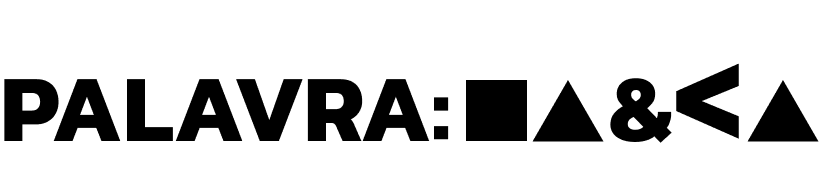
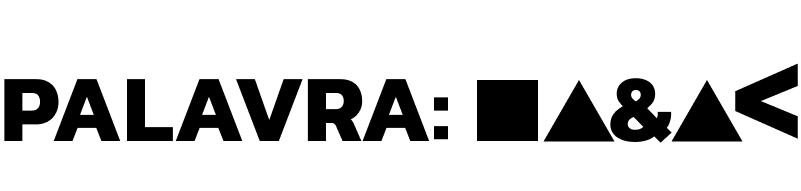
fix: resume problems

Changed region(s): [[0.0312, 0.3927, 0.593, 0.7592], [0.6242, 0.3403, 0.9988, 0.7592], [0.0312, 0.4188, 0.0624, 0.445]]

diff --git a/src/components/features/PadraoCap2/QuizModal.jsx b/src/components/features/PadraoCap2/QuizModal.jsx
@@ -1,50 +1,6 @@
 import styled from "styled-components";
 import InputModal from "../../common/Modal/InputModal";
 
-const RiddleContentWrapper = styled.div`
-  position: relative;
-  padding: 10px 10px 10px 0px;
-  font-family: Arial, sans-serif;
-  color: black;
-  width: 100%;
-  display: flex;
-  flex-direction: column;
-  align-items: center;
-`;
-
-const QuestionText = styled.p`
-  font-size: 22px;
-  line-height: 1.5;
-  text-align: center;
-  margin-bottom: 25px;
-  width: 100%;
-  font-weight: 500;
-  padding-left: 20px;
-  padding-right: 20px;
-`;
-
-const NumberTag = styled.div`
-  position: absolute;
-  top: -30px;
-  left: -30px;
-  width: 40px;
-  height: 40px;
-
-  background-color: #64f5a7;
-  border-radius: 5px;
-  transform: rotate(45deg);
-
-  & span {
-    position: absolute;
-    top: 50%;
-    left: 50%;
-    transform: translate(-50%, -50%) rotate(-45deg);
-    color: black;
-    font-weight: bold;
-    font-size: 30px;
-  }
-`;
-
 function RiddleQuizModal({
   riddleNumber,
   questionText,
@@ -62,15 +18,7 @@ function RiddleQuizModal({
       nextPath={nextPath}
       correctAnswer={correctAnswer}
       initialPlaceholder={newPlaceholder}
-    >
-      <RiddleContentWrapper>
-        <NumberTag>
-          <span>{riddleNumber}</span>
-        </NumberTag>
-
-        <QuestionText>{questionText}</QuestionText>
-      </RiddleContentWrapper>
-    </InputModal>
+    ></InputModal>
   );
 }
 

diff --git a/src/pages/Capitulo2/Styles.js b/src/pages/Capitulo2/Styles.js
@@ -1,0 +1,52 @@
+import styled from "styled-components";
+export const RiddleContentWrapper = styled.div`
+  position: absolute;
+  bottom: 25%;
+  padding: 10px 10px 10px 0px;
+  font-family: Arial, sans-serif;
+  color: black;
+  width: 70%;
+  height: 70vh;
+  background-color: white;
+  display: flex;
+  flex-direction: column;
+  align-items: center;
+  box-shadow: 0 6px 16px 0 rgba(0, 0, 0, 0.08), 0 3px 6px -4px rgba(0, 0, 0, 0.12),
+    0 9px 28px 8px rgba(0, 0, 0, 0.05);
+  border-radius: 15px;
+`;
+
+export const QuestionText = styled.p`
+  font-size: 25px;
+  position: absolute;
+  width: 40px;
+  height: 40px;
+  line-height: 1.5;
+  text-align: center;
+  margin-bottom: 25px;
+  width: 100%;
+  font-weight: 500;
+  padding-left: 20px;
+  padding-right: 20px;
+`;
+
+export const NumberTag = styled.div`
+  position: absolute;
+  ${(props) => `top: ${props.top || "5%"};`}
+  ${(props) => `left: ${props.left || "8%"};`}
+  width: 40px;
+  height: 40px;
+  background-color: #64f5a7;
+  border-radius: 5px;
+  transform: rotate(45deg);
+
+  & span {
+    position: absolute;
+    top: 50%;
+    left: 50%;
+    transform: translate(-50%, -50%) rotate(-45deg);
+    color: black;
+    font-weight: bold;
+    font-size: 30px;
+  }
+`;

diff --git a/src/pages/DeOndeVim/DeOndeVim2.jsx b/src/pages/DeOndeVim/DeOndeVim2.jsx
@@ -4,16 +4,22 @@ import { Container, CloseButton, ArrowButton } from "./Styles";
 import { useNavigate } from "react-router-dom";
 export default function DeOndeVim2() {
   const navigate = useNavigate();
+  const handleAdvance = () => {
+    navigate("/de-onde-vim/3");
+  };
+  const handleBack = () => {
+    navigate("/de-onde-vim");
+  };
   return (
     <Container bg='2'>
       <CloseButton to='/'>
         <CloseOutlined />
       </CloseButton>
 
-      <ArrowButton onClick={navigate("/de-onde-vim")}>
+      <ArrowButton onClick={handleBack}>
         <ArrowLeftOutlined />
       </ArrowButton>
-      <ArrowButton onClick={navigate("/de-onde-vim/3")} right>
+      <ArrowButton onClick={handleAdvance} right>
         <ArrowRightOutlined />
       </ArrowButton>
     </Container>

diff --git a/src/pages/Capitulo2/Pag2_20.jsx b/src/pages/Capitulo2/Pag2_20.jsx
@@ -1,6 +1,6 @@
 import BackgroundBege from "../../components/features/PadraoCap2/TelaBege";
 import RiddleQuizModal from "../../components/features/PadraoCap2/QuizModal";
-
+import { RiddleContentWrapper, NumberTag, QuestionText } from "./Styles";
 const C2_Tela_20 = () => {
   const charada = {
     number: 7,
@@ -20,6 +20,13 @@ const C2_Tela_20 = () => {
         nextPath={charada.nextPath}
         defaultOpen={true}
       />
+      <RiddleContentWrapper>
+        <NumberTag left='17.5%'>
+          <span>{charada.number}</span>
+        </NumberTag>
+
+        <QuestionText>{charada.question}</QuestionText>
+      </RiddleContentWrapper>
     </BackgroundBege>
   );
 };

diff --git a/src/pages/Capitulo2/Pag2_22.jsx b/src/pages/Capitulo2/Pag2_22.jsx
@@ -1,6 +1,6 @@
 import BackgroundBege from "../../components/features/PadraoCap2/TelaBege";
 import RiddleQuizModal from "../../components/features/PadraoCap2/QuizModal";
-
+import { RiddleContentWrapper, NumberTag, QuestionText } from "./Styles";
 const C2_Tela_22 = () => {
   const charada = {
     number: 9,
@@ -20,6 +20,13 @@ const C2_Tela_22 = () => {
         nextPath={charada.nextPath}
         defaultOpen={true}
       />
+      <RiddleContentWrapper>
+        <NumberTag left='12.5%'>
+          <span>{charada.number}</span>
+        </NumberTag>
+
+        <QuestionText>{charada.question}</QuestionText>
+      </RiddleContentWrapper>
     </BackgroundBege>
   );
 };

diff --git a/src/pages/Capitulo2/Pag2_16.jsx b/src/pages/Capitulo2/Pag2_16.jsx
@@ -1,6 +1,6 @@
 import BackgroundBege from "../../components/features/PadraoCap2/TelaBege";
 import RiddleQuizModal from "../../components/features/PadraoCap2/QuizModal";
-
+import { RiddleContentWrapper, NumberTag, QuestionText } from "./Styles";
 const C2_Tela_16 = () => {
   const charada = {
     number: 3,
@@ -20,6 +20,13 @@ const C2_Tela_16 = () => {
         nextPath={charada.nextPath}
         defaultOpen={true}
       />
+      <RiddleContentWrapper>
+        <NumberTag left='10%'>
+          <span>{charada.number}</span>
+        </NumberTag>
+
+        <QuestionText>{charada.question}</QuestionText>
+      </RiddleContentWrapper>
     </BackgroundBege>
   );
 };

diff --git a/src/pages/Capitulo2/Pag2_17.jsx b/src/pages/Capitulo2/Pag2_17.jsx
@@ -1,6 +1,6 @@
 import BackgroundBege from "../../components/features/PadraoCap2/TelaBege";
 import RiddleQuizModal from "../../components/features/PadraoCap2/QuizModal";
-
+import { RiddleContentWrapper, NumberTag, QuestionText } from "./Styles";
 const C2_Tela_17 = () => {
   const charada = {
     number: 4,
@@ -20,6 +20,13 @@ const C2_Tela_17 = () => {
         nextPath={charada.nextPath}
         defaultOpen={true}
       />
+      <RiddleContentWrapper>
+        <NumberTag left='16%'>
+          <span>{charada.number}</span>
+        </NumberTag>
+
+        <QuestionText>{charada.question}</QuestionText>
+      </RiddleContentWrapper>
     </BackgroundBege>
   );
 };

diff --git a/src/pages/Capitulo2/Pag2_19.jsx b/src/pages/Capitulo2/Pag2_19.jsx
@@ -1,6 +1,6 @@
 import BackgroundBege from "../../components/features/PadraoCap2/TelaBege";
 import RiddleQuizModal from "../../components/features/PadraoCap2/QuizModal";
-
+import { RiddleContentWrapper, NumberTag, QuestionText } from "./Styles";
 const C2_Tela_19 = () => {
   const charada = {
     number: 6,
@@ -20,6 +20,13 @@ const C2_Tela_19 = () => {
         nextPath={charada.nextPath}
         defaultOpen={true}
       />
+      <RiddleContentWrapper>
+        <NumberTag left='10%'>
+          <span>{charada.number}</span>
+        </NumberTag>
+
+        <QuestionText>{charada.question}</QuestionText>
+      </RiddleContentWrapper>
     </BackgroundBege>
   );
 };

diff --git a/src/pages/Capitulo2/Pag2_18.jsx b/src/pages/Capitulo2/Pag2_18.jsx
@@ -1,6 +1,6 @@
 import BackgroundBege from "../../components/features/PadraoCap2/TelaBege";
 import RiddleQuizModal from "../../components/features/PadraoCap2/QuizModal";
-
+import { RiddleContentWrapper, NumberTag, QuestionText } from "./Styles";
 const C2_Tela_18 = () => {
   const charada = {
     number: 5,
@@ -21,6 +21,13 @@ const C2_Tela_18 = () => {
         nextPath={charada.nextPath}
         defaultOpen={true}
       />
+      <RiddleContentWrapper>
+        <NumberTag left='5%'>
+          <span>{charada.number}</span>
+        </NumberTag>
+
+        <QuestionText>{charada.question}</QuestionText>
+      </RiddleContentWrapper>
     </BackgroundBege>
   );
 };

diff --git a/src/pages/Capitulo2/Pag2_21.jsx b/src/pages/Capitulo2/Pag2_21.jsx
@@ -1,6 +1,6 @@
 import BackgroundBege from "../../components/features/PadraoCap2/TelaBege";
 import RiddleQuizModal from "../../components/features/PadraoCap2/QuizModal";
-
+import { RiddleContentWrapper, NumberTag, QuestionText } from "./Styles";
 const C2_Tela_21 = () => {
   const charada = {
     number: 8,
@@ -21,6 +21,13 @@ const C2_Tela_21 = () => {
         nextPath={charada.nextPath}
         defaultOpen={true}
       />
+      <RiddleContentWrapper>
+        <NumberTag left='9%'>
+          <span>{charada.number}</span>
+        </NumberTag>
+
+        <QuestionText>{charada.question}</QuestionText>
+      </RiddleContentWrapper>
     </BackgroundBege>
   );
 };

diff --git a/src/pages/Capitulo2/Pag2_15.jsx b/src/pages/Capitulo2/Pag2_15.jsx
@@ -1,6 +1,6 @@
 import BackgroundBege from "../../components/features/PadraoCap2/TelaBege";
 import RiddleQuizModal from "../../components/features/PadraoCap2/QuizModal";
-
+import { RiddleContentWrapper, NumberTag, QuestionText } from "./Styles";
 const C2_Tela_15 = () => {
   const charada = {
     number: 2,
@@ -21,6 +21,13 @@ const C2_Tela_15 = () => {
         nextPath={charada.nextPath}
         defaultOpen={true}
       />
+      <RiddleContentWrapper>
+        <NumberTag>
+          <span>{charada.number}</span>
+        </NumberTag>
+
+        <QuestionText>{charada.question}</QuestionText>
+      </RiddleContentWrapper>
     </BackgroundBege>
   );
 };

diff --git a/src/pages/Capitulo2/Pag2_14.jsx b/src/pages/Capitulo2/Pag2_14.jsx
@@ -1,5 +1,6 @@
 import BackgroundBege from "../../components/features/PadraoCap2/TelaBege";
 import RiddleQuizModal from "../../components/features/PadraoCap2/QuizModal";
+import { RiddleContentWrapper, NumberTag, QuestionText } from "./Styles";
 
 const C2_Tela_14 = () => {
   const charada = {
@@ -20,6 +21,13 @@ const C2_Tela_14 = () => {
         nextPath={charada.nextPath}
         defaultOpen={true}
       />
+      <RiddleContentWrapper>
+        <NumberTag left='12%'>
+          <span>{charada.number}</span>
+        </NumberTag>
+
+        <QuestionText>{charada.question}</QuestionText>
+      </RiddleContentWrapper>
     </BackgroundBege>
   );
 };
